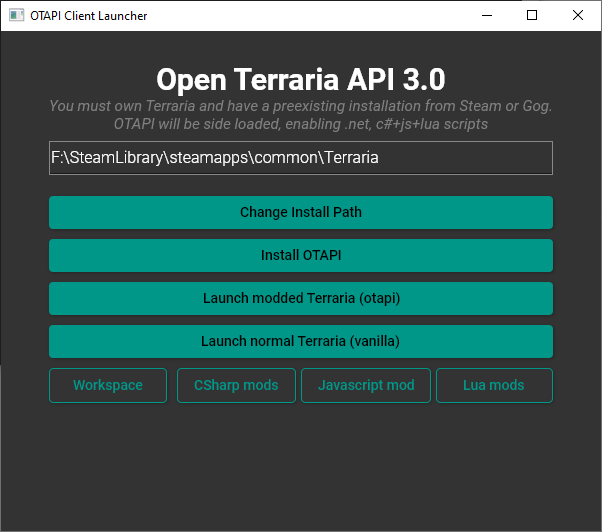
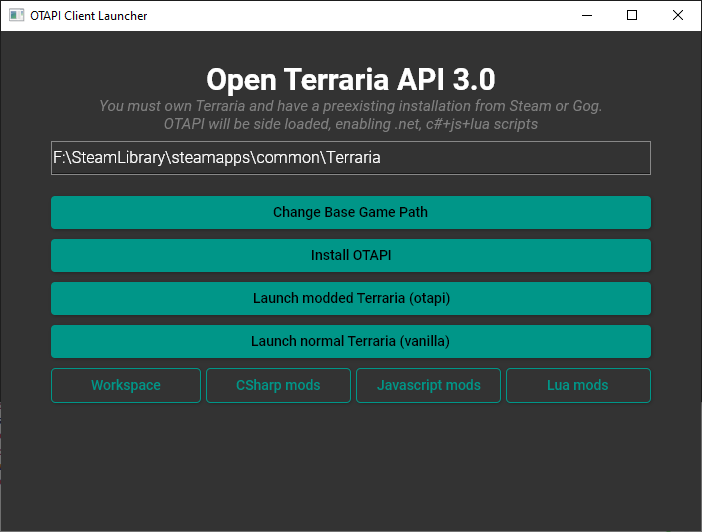
Add open GUI actions for mod folders + doco images

diff --git a/OTAPI.Client.Launcher/MainWindowViewModel.cs b/OTAPI.Client.Launcher/MainWindowViewModel.cs
@@ -21,6 +21,7 @@ using OTAPI.Common;
 using ReactiveUI;
 using System;
 using System.IO;
+using System.Runtime.CompilerServices;
 
 namespace OTAPI.Client.Launcher
 {
@@ -32,8 +33,9 @@ namespace OTAPI.Client.Launcher
             get => _vanillaExe;
             set
             {
-                IsVanillaReady = File.Exists(value);
                 this.RaiseAndSetIfChanged(ref _vanillaExe, value);
+                this.RaisePropertyChanged(nameof(IsVanillaFound));
+                this.RaisePropertyChanged(nameof(IsVanillaReady));
             }
         }
 
@@ -43,39 +45,23 @@ namespace OTAPI.Client.Launcher
             get => _otapiExe;
             set
             {
-                IsOTAPIFound = File.Exists(value);
-                IsOTAPIReady = IsOTAPIFound && !IsInstalling;
                 this.RaiseAndSetIfChanged(ref _otapiExe, value);
+                this.RaisePropertyChanged(nameof(IsOTAPIFound));
+                this.RaisePropertyChanged(nameof(IsOTAPIReady));
             }
         }
 
-        private bool _isVanillaReady;
-        public bool IsVanillaReady { get => _isVanillaReady; set => this.RaiseAndSetIfChanged(ref _isVanillaReady, value); }
 
-        private bool _isOTAPIReady;
-        public bool IsOTAPIReady
-        {
-            get => _isOTAPIReady;
-            set
-            {
-                this.RaiseAndSetIfChanged(ref _isOTAPIReady, value);
-            }
-        }
+        public bool IsVanillaFound => File.Exists(VanillaExe);
+        public bool IsVanillaReady => IsVanillaFound && !IsInstalling;
 
-        private bool _isOTAPIFound;
-        public bool IsOTAPIFound
-        {
-            get => _isOTAPIFound;
-            set
-            {
-                this.RaiseAndSetIfChanged(ref _isOTAPIFound, value);
-            }
-        }
+        public bool IsOTAPIFound => File.Exists(OtapiExe);
+        public bool IsOTAPIReady => IsOTAPIFound && !IsInstalling;
 
         public IPlatformTarget? LaunchTarget { get; set; }
 
-        private ClientInstallPath<IPlatformTarget> _installPath;
-        public ClientInstallPath<IPlatformTarget> InstallPath { get => _installPath; set => this.RaiseAndSetIfChanged(ref _installPath, value); }
+        private ClientInstallPath<IPlatformTarget>? _installPath;
+        public ClientInstallPath<IPlatformTarget>? InstallPath { get => _installPath; set => this.RaiseAndSetIfChanged(ref _installPath, value); }
 
         private bool _installPathValid;
         public bool InstallPathValid
@@ -84,7 +70,7 @@ namespace OTAPI.Client.Launcher
             set
             {
                 this.RaiseAndSetIfChanged(ref _installPathValid, value);
-                CanInstall = InstallPathValid && !IsInstalling;
+                this.RaisePropertyChanged(nameof(CanInstall));
             }
         }
 
@@ -98,12 +84,12 @@ namespace OTAPI.Client.Launcher
             set
             {
                 this.RaiseAndSetIfChanged(ref _installing, value);
-                CanInstall = InstallPathValid && !IsInstalling;
-                IsOTAPIReady = File.Exists(OtapiExe) && !IsInstalling;
+                this.RaisePropertyChanged(nameof(CanInstall));
+                this.RaisePropertyChanged(nameof(IsOTAPIReady));
+                this.RaisePropertyChanged(nameof(IsVanillaReady));
             }
         }
 
-        private bool _canInstall;
-        public bool CanInstall { get => _canInstall; set => this.RaiseAndSetIfChanged(ref _canInstall, value); }
+        public bool CanInstall => InstallPathValid && !IsInstalling;
     }
 }

diff --git a/OTAPI.Client.Launcher/MainWindow.axaml.cs b/OTAPI.Client.Launcher/MainWindow.axaml.cs
@@ -163,11 +163,16 @@ namespace OTAPI.Client.Launcher
             Context.InstallStatus = "Install path is not supported";
         }
 
-        public void OnOpenInstallFolder(object sender, RoutedEventArgs e)
+        public void OnOpenWorkspace(object sender, RoutedEventArgs e) => OpenFolder(Environment.CurrentDirectory);
+        public void OnOpenCSharp(object sender, RoutedEventArgs e) => OpenFolder(Path.Combine(Environment.CurrentDirectory, "csharp", "plugins", "modules"));
+        public void OnOpenJavascript(object sender, RoutedEventArgs e) => OpenFolder(Path.Combine(Environment.CurrentDirectory, "clearscript"));
+        public void OnOpenLua(object sender, RoutedEventArgs e) => OpenFolder(Path.Combine(Environment.CurrentDirectory, "lua"));
+
+        public void OpenFolder(string folder)
         {
             using var process = new System.Diagnostics.Process();
             process.StartInfo.UseShellExecute = true;
-            process.StartInfo.FileName = Environment.CurrentDirectory;
+            process.StartInfo.FileName = folder;
             process.Start();
         }
 
